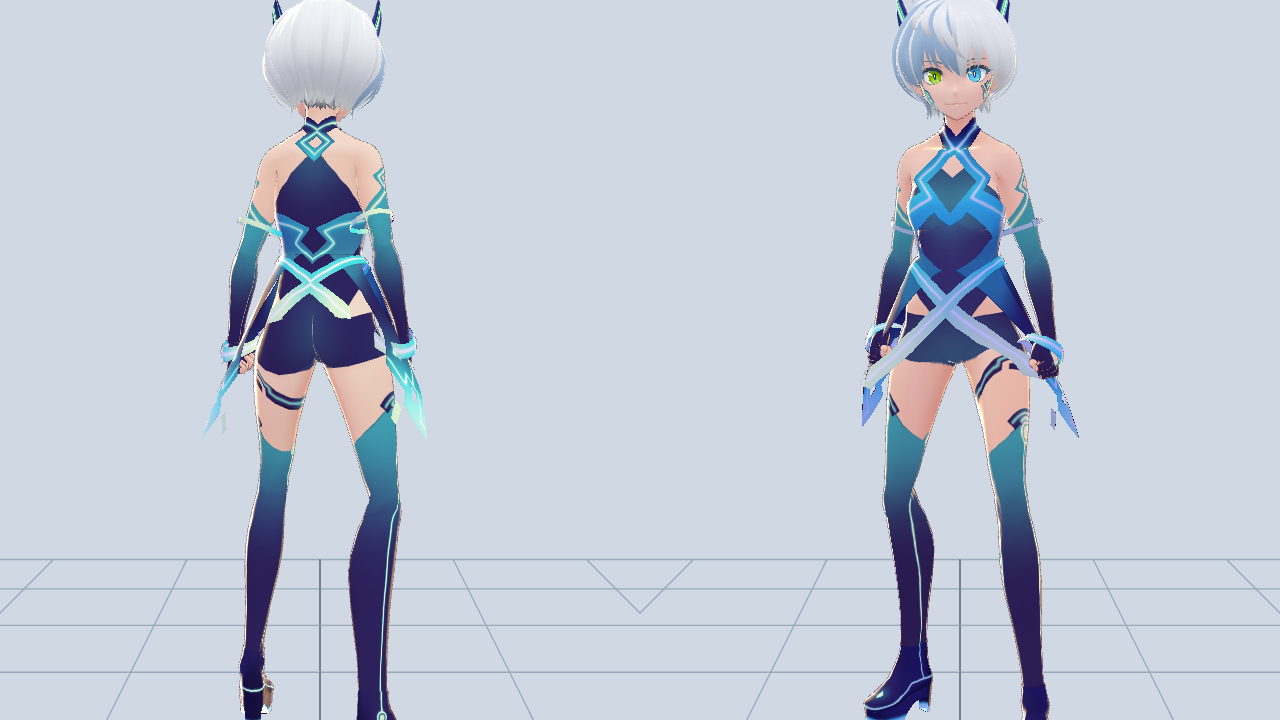
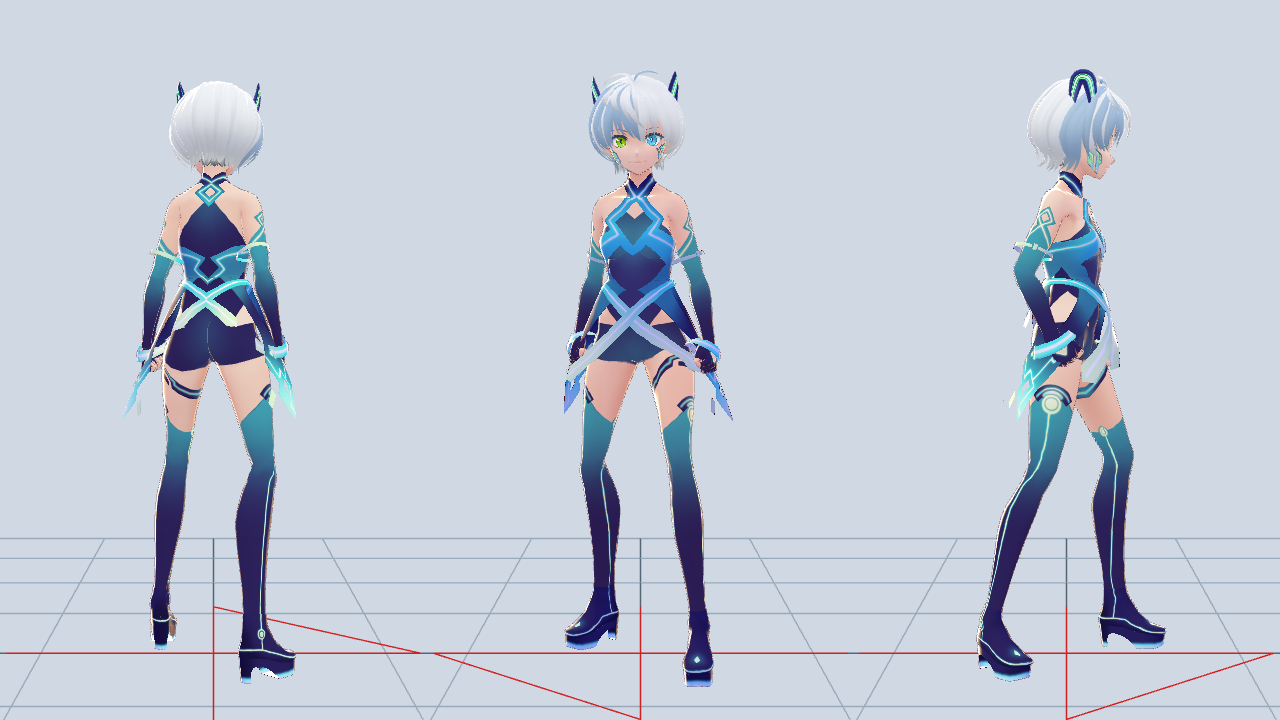
G2: VRoid probe reframed with ground line and bound-bone count, D-049 corrected (D-050 review) — TEST-03 BLOCKED(owner-asset-approval)

diff --git a/vitexec/probes/vroid-g.ts b/vitexec/probes/vroid-g.ts
@@ -44,7 +44,10 @@ const posed: Record<string, unknown> = {}
 for (const name of ['Idle_Loop', 'Walk_Loop', 'Sprint_Loop', 'Jump_Start', 'Jump_Loop', 'Jump_Land']) {
   const clip = await loadCharacterAnimation(model as never, assetUrl(`assets/_build-only/animations/ual1/${name}.glb`), 'gltf', true, undefined, undefined, UAL1_BONE_MAP)
   const bones = new Set(clip.tracks.map((t) => t.name.split('.')[0]))
-  clips[name] = { tracks: clip.tracks.length, bones: bones.size, duration: Number(clip.duration.toFixed(3)) }
+  // retargeted = the track name now points at a node of the model (VRM normalized bone); an unmapped track keeps the
+  // clip's name and binds to nothing, so the plain name count alone would not prove the retarget
+  const bound = [...bones].filter((b) => model.scene.getObjectByName(b) != null)
+  clips[name] = { tracks: clip.tracks.length, trackBones: bones.size, boundToModel: bound.length, unbound: [...bones].filter((b) => !bound.includes(b)), duration: Number(clip.duration.toFixed(3)) }
   if (name === 'Idle_Loop' || name === 'Walk_Loop') {
     model.mixer.stopAllAction()
     const action = model.mixer.clipAction(clip)
@@ -61,7 +64,8 @@ for (const name of ['Idle_Loop', 'Walk_Loop', 'Sprint_Loop', 'Jump_Start', 'Jump
   }
 }
 
-// preview: Idle pose, front and back, into an overlay canvas (vitexec --screenshot captures the page)
+// preview: Idle pose — back, front and side views with the ground line (y = 0) in frame, into an overlay canvas
+// (vitexec --screenshot captures the page); a red line marks y = 0 under the model
 const idle = await loadCharacterAnimation(model as never, assetUrl('assets/_build-only/animations/ual1/Idle_Loop.glb'), 'gltf', true, undefined, undefined, UAL1_BONE_MAP)
 model.mixer.clipAction(idle).play()
 model.mixer.update(0.6)
@@ -80,13 +84,23 @@ sun.position.set(2, 4, 3)
 scene.add(sun)
 const grid = new THREE.GridHelper(4, 8, '#556677', '#99aabb')
 scene.add(grid)
-for (const [i, z] of [3, -3].entries()) {
-  const cam = new THREE.PerspectiveCamera(30, innerWidth / 2 / innerHeight, 0.1, 50)
-  cam.position.set(0, 1.0, z)
+const groundLine = new THREE.Line(
+  new THREE.BufferGeometry().setFromPoints([new THREE.Vector3(-0.6, 0, 0), new THREE.Vector3(0.6, 0, 0), new THREE.Vector3(0, 0, -0.6), new THREE.Vector3(0, 0, 0.6)]),
+  new THREE.LineBasicMaterial({ color: '#d02020', depthTest: false }),
+)
+scene.add(groundLine)
+const views: Array<[number, number, number]> = [
+  [0, 0.9, 3.4], // back of the model (it faces -Z in its own space)
+  [0, 0.9, -3.4], // front
+  [3.4, 0.9, 0], // side
+]
+const w3 = innerWidth / 3
+for (const [i, [px, py, pz]] of views.entries()) {
+  const cam = new THREE.PerspectiveCamera(34, w3 / innerHeight, 0.1, 50)
+  cam.position.set(px, py, pz)
   cam.lookAt(0, 0.85, 0)
-  const x = (i * innerWidth) / 2
-  renderer.setViewport(x, 0, innerWidth / 2, innerHeight)
-  renderer.setScissor(x, 0, innerWidth / 2, innerHeight)
+  renderer.setViewport(i * w3, 0, w3, innerHeight)
+  renderer.setScissor(i * w3, 0, w3, innerHeight)
   renderer.render(scene, cam)
 }
 console.log('vroid ' + JSON.stringify({ which, url, metaVersion: model.meta.metaVersion, bind, textures: textures.size, texturesWithWidth: texSizes.filter((w) => w > 0).length, maxTextureWidth: Math.max(...texSizes), clips, posed }))

diff --git a/docs/DECISIONS.md b/docs/DECISIONS.md
@@ -151,4 +151,7 @@ Context: A1 (UAL1 Standard, OGA, CC0 label, pack License.txt "CC0 1.0 Universal"
 Context: a review workflow (3 read-only reviewers for licensing, code and spec, plus one skeptic per finding; no browser, build or network) checked commits f96176f..7e6088d while the route bot ran. Confirmed defects: (1) docs/APPROVALS.md line 1 carried five glued copies of the approval cells in front of its heading — side effect of a first, discarded regex edit; (2) the PROGRESS TEST-03 row and resume line still said A1–A6 were unapproved; (3) the G0 favicon manifest row had file_size 304 and sha256 placeholder "(G5)" (real: 292 bytes, 39fa30f4…4225); (4) `fetch-assets.mjs` wrote `obtainedOn` as a UTC date (2026-10-29 for downloads at 06:17 +07:00, local 2026-10-30). Also taken: dump the mannequin's node names to evidence (ref/04 §Animasi), correct D-047 (the seven default clips are seven UAL1 motions; jump-forward = Roll), Credits name the UAL1 clips and the HDRI, and the VRoid notes say "three 2048² material textures plus a 2048² thumbnail". Refuted: "VRoid rows must be BLOCKED because the meta says Other" — the meta (VRoid Hub conditions, all permissive) is recorded and nothing in it contradicts CC0; DOWNLOADED is the right manifest status and A5 stays out of `public/` (D-045). The code reviewer found no defect. Choice: all confirmed items fixed; `fetch-assets.mjs` now writes `obtainedOn` (local date) and `obtainedAt` (ISO timestamp); the download log carries a dated note instead of being rewritten. Evidence: workflow run wf_ddcba290-740 (9 agents), `evidence/G2/G2-viverse-mannequin-nodes.json`, `evidence/G2/G2-ual1-bone-pairing.json` (53 pairs, 52 in UAL1_BONE_MAP, `root` left out by design), `evidence/G2/TEST-03-check-assets.log`. Consequence: none on gameplay.
 
 ## D-049 VRoid candidates prepared in .cache: textures ≤1024² by a dependency-free rewriter; integration still waits for the first-party text
-Context: the owner chose the pixiv-text route for the final character ("Tempel teks pixiv", 2026-10-30) but the CC0 sentence has not been pasted yet, so A5 stays out of `public/` (D-045). D-017 caps textures at 1024²; AvatarSample_F/G each carry three 2048² material textures and a 2048² thumbnail, which also pushes the files to 14.2–15.3 MB (budget 10 MB). ref/05 forbids gltf-transform for `.vrm` (the VRM extension is dropped). Choice: `scripts/vrm-textures.mjs` parses the GLB itself, resizes only the embedded images above `--max` with ffmpeg (lanczos, aspect kept), rebuilds the BIN chunk with 4-byte-aligned views and checks its own output (non-image views byte-identical, every image ≤ max, extensions unchanged). Results in `.cache/work/vroid-{g,f}/`: G 15.32 → 8.48 MB, F 14.20 → 8.83 MB, 0 images above 1024, VRM meta untouched — so no size exception is needed. The probe `vitexec/probes/vroid-g.ts` (`?vrm=f` for F) loads them with the library's loaders: VRM 0.x, heights 1.737 / 1.713 m, 68/68 textures with width > 0, all six UAL1 clips retarget to 52 humanoid bones (53 tracks), feet on the ground in the idle pose (skinned bbox min −0.019 m for G); the model faces −Z in its own space (to check against the facing rule in TEST-03). Evidence: `evidence/G2/G2-vroid-{g,f}-textures.log`, `G2-vroid-g-1024-inspect.json`, `G2-vroid-{g,f}-probe.log/.png`. Consequence: once the owner pastes the text and picks G or F, the remaining steps are the meta rewrite (`vrm-meta.mjs`), the D-017 changes (palette recolour + one primitive accessory on a bone), copying to `public/assets/characters/`, rig.ts, emptying the stub keep list and TEST-03.
+Context: the owner chose the pixiv-text route for the final character ("Tempel teks pixiv", 2026-10-30) but the CC0 sentence has not been pasted yet, so A5 stays out of `public/` (D-045). D-017 caps textures at 1024²; AvatarSample_F/G each carry three 2048² material textures and a 2048² thumbnail, which also pushes the files to 14.2–15.3 MB (budget 10 MB). ref/05 forbids gltf-transform for `.vrm` (the VRM extension is dropped). Choice: `scripts/vrm-textures.mjs` parses the GLB itself, resizes only the embedded images above `--max` with ffmpeg (lanczos, aspect kept), rebuilds the BIN chunk with 4-byte-aligned views and checks its own output (non-image views byte-identical, every image ≤ max, extensions unchanged). Results in `.cache/work/vroid-{g,f}/`: G 15.32 → 8.88 MB, F 14.20 → 8.83 MB (decimal MB; 8,878,364 and 8,827,428 bytes), 0 images above 1024, VRM meta untouched — so no size exception is needed. The probe `vitexec/probes/vroid-g.ts` (`?vrm=f` for F) loads them with the library's loaders: VRM 0.x, heights 1.737 / 1.713 m, 68/68 textures with width > 0, all six UAL1 clips retarget: 52 of 52 track bones resolve to nodes of the model (53 tracks incl. the hips position); in the idle pose the soles sit about 1.9 cm below y = 0 (skinned bbox min −0.0192 m G, −0.0189 m F; walk +0.002 m), visible against the red y = 0 line in the screenshots (back, front, side); the model faces −Z in its own space. Both points are checks for TEST-03 in the game (feet on the ground, facing the movement direction). Evidence: `evidence/G2/G2-vroid-{g,f}-textures.log`, `G2-vroid-g-1024-inspect.json`, `G2-vroid-{g,f}-probe.log/.png` (full vitexec output of the committed probe, rerun after the D-050 review). Consequence: once the owner pastes the text and picks G or F, the remaining steps are the meta rewrite (`vrm-meta.mjs`), the D-017 changes (palette recolour + one primitive accessory on a bone), copying to `public/assets/characters/`, rig.ts, emptying the stub keep list and TEST-03.
+
+## D-050 Read-only review of the VRM tool and probe (D-049)
+Context: a review workflow (2 reviewers, 5 skeptics; read-only, no browser running) checked `scripts/vrm-textures.mjs`, `vitexec/probes/vroid-g.ts` and their evidence. Confirmed: (1) the first probe screenshots cut off the feet (camera y 1.0, fov 30: y = 0 fell below the frame) although D-049 cited them for "feet on the ground", and the measured soles are about 1.9 cm below y = 0 in idle; (2) D-049 gave G as 8.48 MB instead of 8.88 MB. Also taken from unverified findings: the bone count only counted track names (now: names that resolve to model nodes), and the committed G log came from the probe before its `?vrm=` change while the F log was a one-line excerpt. Refuted as not applicable to these files: views shared by an image and an accessor (invalid glTF), 16-bit PNG precision (all images are 8-bit RGBA), a temp-file race between concurrent runs. Choice: probe reframed (three views, red y = 0 line, camera y 0.9, fov 34), retarget measured as bound bones, both probes rerun with full logs, D-049 corrected. Evidence: workflow run wf_8a02122c-439; `evidence/G2/G2-vroid-{g,f}-probe.log/.png`. Consequence: none on gameplay; TEST-03 must look at the in-game feet (a 2 cm visual offset may be needed).
